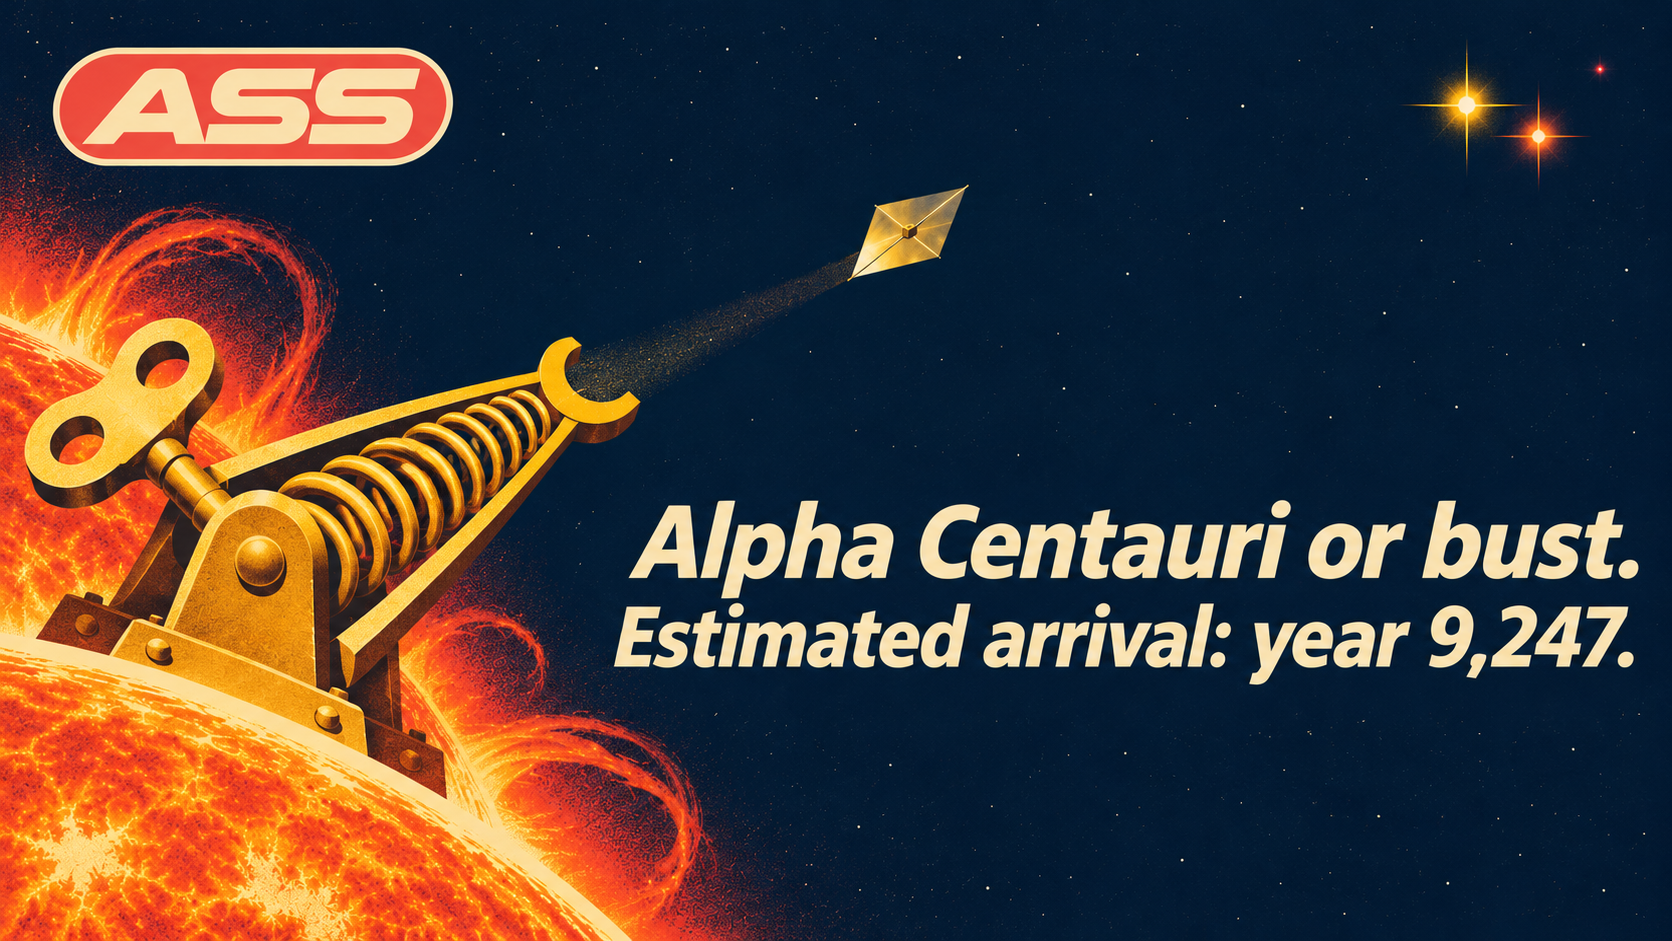
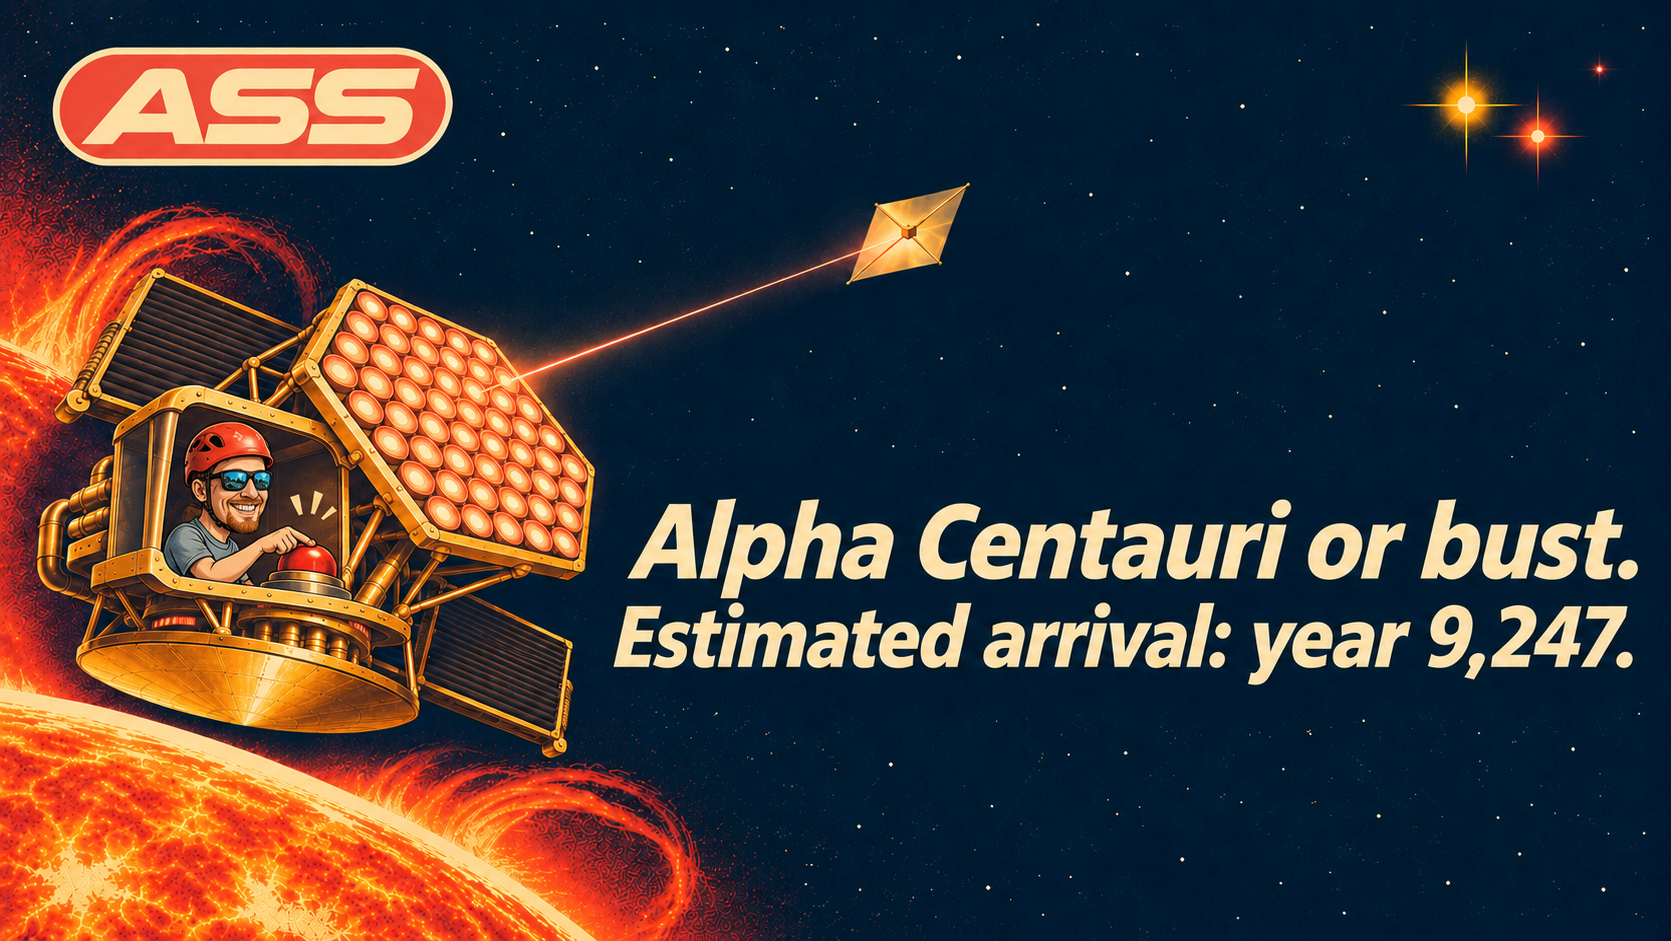
Replace README hero image with orbital laser poster

diff --git a/README.md b/README.md
@@ -1,6 +1,6 @@
 # ASS: Alpha centauri Solar Sail
 
-<p align="center"><img src="docs/images/hero.png" alt="Retro poster: a wind-up catapult on the Sun launches a tiny solar sail towards Alpha Centauri. Alpha Centauri or bust. Estimated arrival: year 9,247." width="640"></p>
+<p align="center"><img src="docs/images/hero.png" alt="Retro poster: a smiling operator in a helmet and sunglasses presses a big red button on a brass orbital laser above the Sun, beaming a tiny solar sail towards Alpha Centauri. Alpha Centauri or bust. Estimated arrival: year 9,247." width="640"></p>
 
 [![CI](https://github.com/mzarnecki/alphacentauri-solar-sail/actions/workflows/ci.yml/badge.svg)](https://github.com/mzarnecki/alphacentauri-solar-sail/actions/workflows/ci.yml)
 
